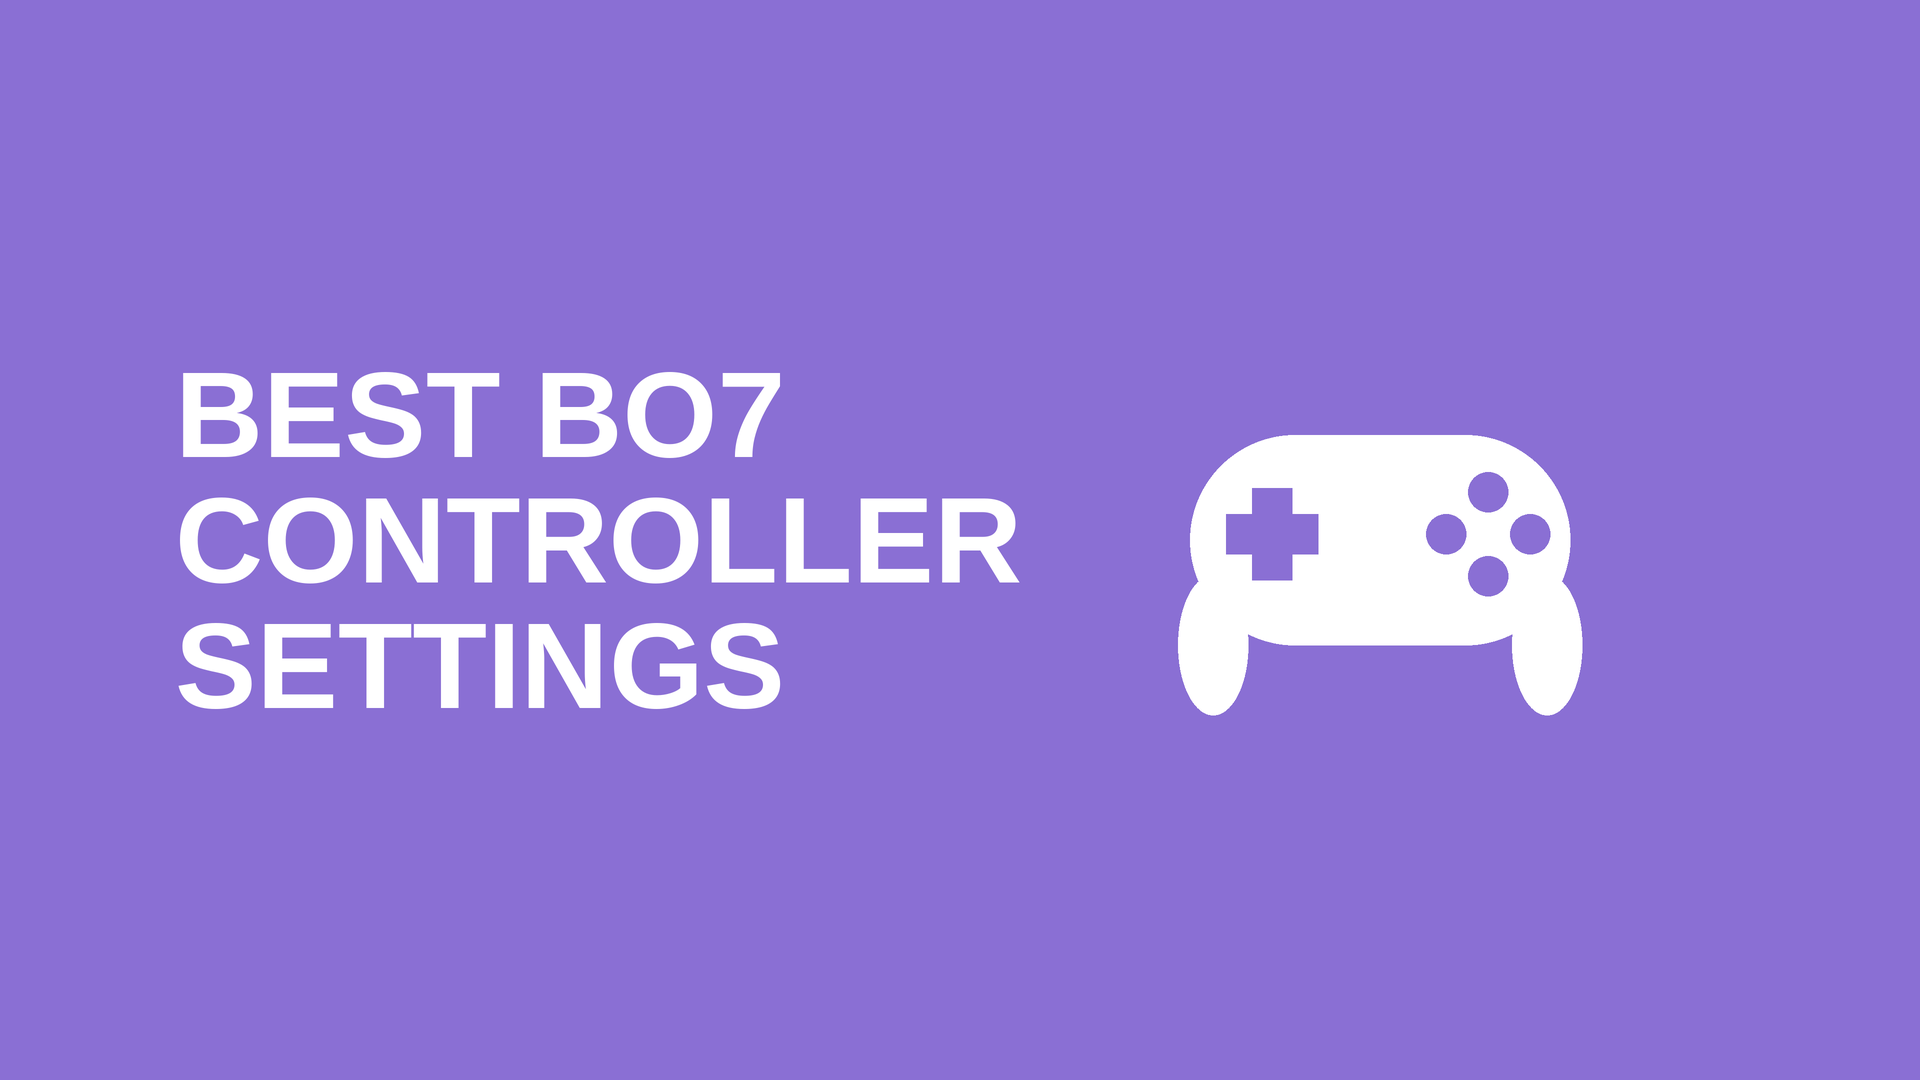
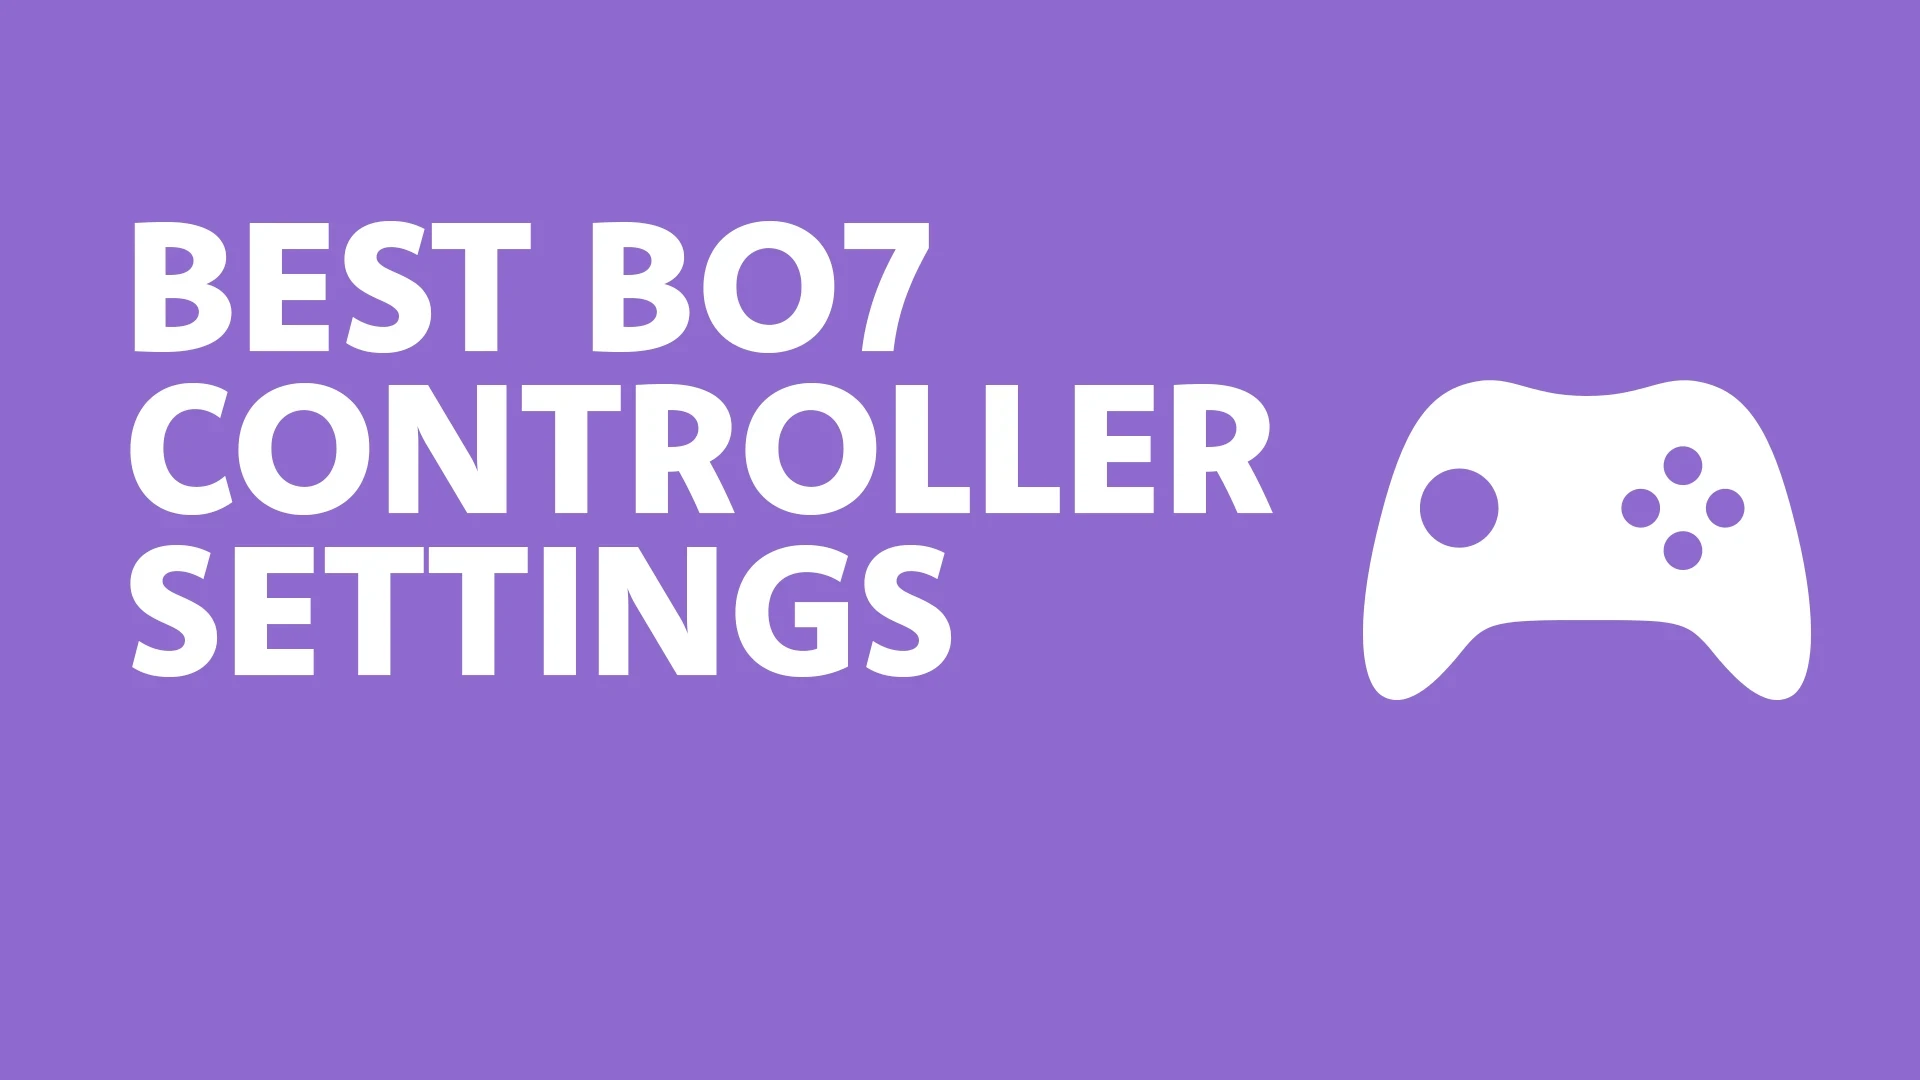
Add Best Modern Warfare 4 Loadouts article and refresh article thumbnails

Changed region(s): [[0.0625, 0.1833, 0.9688, 0.6722]]

diff --git a/website_frontend/src/pages/More/Articles/MW4Loadouts.js b/website_frontend/src/pages/More/Articles/MW4Loadouts.js
@@ -1,0 +1,157 @@
+import { Link } from "react-router";
+import { ArticleLayout } from "components";
+import { articles } from "./articlesData";
+import han86Base from 'assets/images/article_specific/article-mw4-han-86-base_10.24.26.webp';
+import han86Build from 'assets/images/article_specific/article-mw4-han-86-build_10.24.26.webp';
+import vel46Base from 'assets/images/article_specific/article-mw4-vel-46-base_10.24.26.webp';
+import vel46Build from 'assets/images/article_specific/article-mw4-vel-46-build_10.24.26.webp';
+import m4Base from 'assets/images/article_specific/article-mw4-m4-base_10.24.26.webp';
+import m4Build from 'assets/images/article_specific/article-mw4-m4-build_10.24.26.webp';
+import isoBase from 'assets/images/article_specific/article-mw4-iso-nightshade-base_10.24.26.webp';
+import isoBuild from 'assets/images/article_specific/article-mw4-iso-nightshade-build_10.24.26.webp';
+import castoffBase from 'assets/images/article_specific/article-mw4-castoff-762-base_10.24.26.webp';
+import castoffBuild from 'assets/images/article_specific/article-mw4-castoff-762-build_10.24.26.webp';
+
+const takeaways = [
+    "The Han 86, VEL 46, M4, ISO Nightshade and Castoff 762 are the five builds to copy right now.",
+    "Nearly every build runs a suppressor and a laser, trading recoil control for faster aim-down-sight speed.",
+    "Every class shares the same kit: Claymores, Portable Radar, and Resupply, Ninja and Scavenger.",
+];
+
+const faqs = [
+    {
+        question: "What is the best gun in Modern Warfare 4 right now?",
+        answer: "The M4 is the strongest all-round pick in this list, thanks to its very fast time to kill and controllable recoil. The ISO Nightshade is the top SMG.",
+    },
+    {
+        question: "Should I use the Vizive 5 or the XRK Clutch LS?",
+        answer: "The Vizive 5 gives bigger handling boosts but shows a visible beam while you aim. The XRK Clutch LS is weaker but hidden, so it suits slower, stealthier play.",
+    },
+    {
+        question: "Why do these builds skip optics?",
+        answer: "The M4 and VEL 46 have clean iron sights, so an optic would waste one of your five attachment slots. Add one if you prefer a cleaner sight picture.",
+    },
+];
+
+export const MW4Loadouts = () => {
+    return (
+        <ArticleLayout article={articles.mw4Loadouts} takeaways={takeaways} faqs={faqs}>
+            <p>
+                Whether you want more kills in Team Deathmatch or more wins in objective modes, your loadout does a lot of the work.
+                Modern Warfare 4 gives each weapon five attachment slots, and the right five can turn a slow rifle into a run-and-gun
+                threat. The builds below come from{" "}
+                <a href="https://www.youtube.com/watch?v=QnNxlKKB_Aw" target="_blank" rel="noopener noreferrer">this loadout video</a>,
+                cleaned up and organized so you can set them up in Gunsmith fast.
+            </p>
+
+            <h2>1. Best Han 86 Loadout</h2>
+            <img src={han86Base} alt="Han 86 in Modern Warfare 4" loading="lazy" />
+            <p>The Han 86 is one of the easiest assault rifles in the game, with very low recoil and a fast time to kill. Built this way, you can hold the trigger at long range without burst firing.</p>
+            <ol>
+                <li><strong>Optic: Slimline Elite Mini Reflex.</strong> A clean sight picture for longer fights. Slide the rail position closest to you to cut visual recoil.</li>
+                <li><strong>Laser: Vizive 5.</strong> Boosts sprint-to-fire speed, ADS speed and ADS gun bob. Prefer not to show a beam? Use the XRK Clutch LS for faster ADS with no visible laser.</li>
+                <li><strong>Barrel: Han 86 Silenced Barrel.</strong> An integrated suppressor keeps you off the radar while adding muzzle velocity, damage range and recoil control.</li>
+                <li><strong>Underbarrel: FSS TAC 90 Grip.</strong> Cuts idle sway and gun bob for steadier long-range shots.</li>
+                <li><strong>Stock: L9P Fold Stock.</strong> Raises movement speed so the rifle feels less sluggish. Swap it for the Justice 2 rear grip if you want even faster ADS.</li>
+            </ol>
+            <img src={han86Build} alt="The finished Han 86 build in Gunsmith" loading="lazy" />
+            <p>This is a true all-range rifle, so it works as a primary for almost any mode.</p>
+
+            <h2>2. Best VEL 46 Loadout</h2>
+            <img src={vel46Base} alt="VEL 46 in Modern Warfare 4" loading="lazy" />
+            <p>The VEL 46 is the game's take on the MP7, and it hits closer to an assault rifle than an SMG. Its iron sights are clean, so you don't need to spend a slot on an optic.</p>
+            <ol>
+                <li><strong>Laser: Vizive 5.</strong> ADS speed matters most on an SMG, and this also speeds up sprint-to-fire. If you play slower and want to stay hidden, run the XRK Clutch LS.</li>
+                <li><strong>Barrel: Series 11 Barrel.</strong> Adds damage range, muzzle velocity and recoil control so you can fight past point-blank range.</li>
+                <li><strong>Muzzle: Crackdown Muzzle.</strong> A heavy suppressor that keeps you off the radar and improves damage range.</li>
+                <li><strong>Rear Grip: LM Combat Grip.</strong> More ADS speed. The recoil penalty is covered by the barrel and muzzle.</li>
+                <li><strong>Stock: VEL 46 Extended Stock.</strong> One more ADS speed boost for snappier close-range fights.</li>
+            </ol>
+            <img src={vel46Build} alt="The finished VEL 46 build in Gunsmith" loading="lazy" />
+            <p>The result is an SMG/AR hybrid that wins fights at close and medium range.</p>
+
+            <h2>3. Best M4 Loadout</h2>
+            <img src={m4Base} alt="M4 in Modern Warfare 4" loading="lazy" />
+            <p>The M4 is arguably the best assault rifle in Modern Warfare 4, with a very fast time to kill and controllable recoil. Skip the barrel slot entirely: every barrel option makes this gun worse.</p>
+            <ol>
+                <li><strong>Laser: SA L500.</strong> Faster ADS with no downsides on this weapon.</li>
+                <li><strong>Muzzle: IS300.</strong> A suppressor that adds muzzle velocity, damage range and recoil control.</li>
+                <li><strong>Underbarrel: Fireline Grip.</strong> Extra ADS recoil control on top of an already stable rifle.</li>
+                <li><strong>Rear Grip: Phase Grip.</strong> Improves ADS and sprint-to-fire speed where the M4 is weakest.</li>
+                <li><strong>Stock: ASP50 Stock.</strong> Raises movement speed. Prefer an optic? Drop the stock for the Slimline Elite and slide it closest to you.</li>
+            </ol>
+            <img src={m4Build} alt="The finished M4 build in Gunsmith" loading="lazy" />
+            <p>The iron sights are strong enough to run without an optic. At extreme range, tap or burst fire to stay on target.</p>
+
+            <h2>4. Best ISO Nightshade Loadout</h2>
+            <img src={isoBase} alt="ISO Nightshade in Modern Warfare 4" loading="lazy" />
+            <p>The ISO Nightshade is pitched as the strongest SMG on paper, and this build turns it into an AR hybrid that can still run and gun.</p>
+            <ol>
+                <li><strong>Laser: Vizive 5.</strong> Faster sprint-to-fire, faster ADS and less gun bob. Swap to the XRK Clutch LS to hide your beam.</li>
+                <li><strong>Barrel: ZLR Carbon 900.</strong> Adds damage range, muzzle velocity and recoil control for medium- and long-range fights.</li>
+                <li><strong>Muzzle: XRK Herder 40.</strong> A suppressor that improves firing stability. The small ADS penalty is offset by the laser and grip.</li>
+                <li><strong>Underbarrel: FSS TAC 90 Grip.</strong> Reduces idle sway and gun bob for longer shots.</li>
+                <li><strong>Rear Grip: Demo STP1.</strong> Brings back ADS speed for close-range fights. The recoil cost is covered by the rest of the build.</li>
+            </ol>
+            <img src={isoBuild} alt="The finished ISO Nightshade build in Gunsmith" loading="lazy" />
+            <p>You only get 30 rounds, so avoid taking on multiple enemies at once.</p>
+
+            <h2>5. Best Castoff 762 Loadout</h2>
+            <img src={castoffBase} alt="Castoff 762 in Modern Warfare 4" loading="lazy" />
+            <p>The Castoff 762 hits harder than the other rifles here, but its handling is slow. This build is about speeding it up without losing its punch.</p>
+            <ol>
+                <li><strong>Optic: Cronin 0K.</strong> Cleans up the sight picture for medium- and long-range fights. You can't adjust the rail position on this gun.</li>
+                <li><strong>Barrel: FJX Ghostfire 16.3".</strong> An integrated suppressor plus better muzzle velocity and recoil control.</li>
+                <li><strong>Underbarrel: FSS TAC 90 Grip.</strong> Removes as much sway and gun bob as possible.</li>
+                <li><strong>Rear Grip: Mugi O YK1 Grip.</strong> Faster ADS and sprint-to-fire speed.</li>
+                <li><strong>Stock: Castoff Dogfighter 27.</strong> Raises movement speed so the rifle doesn't feel stuck in the mud.</li>
+            </ol>
+            <img src={castoffBuild} alt="The finished Castoff 762 build in Gunsmith" loading="lazy" />
+            <p>It's the pick if you want a heavier-hitting rifle for longer sightlines.</p>
+
+            <h2>Best Perks, Equipment and Killstreaks</h2>
+            <p>Run the same kit on all five classes. It's built to punish campers and keep your equipment stocked.</p>
+            <table>
+                <thead>
+                    <tr>
+                        <th>Slot</th>
+                        <th>Pick</th>
+                        <th>Why</th>
+                    </tr>
+                </thead>
+                <tbody>
+                    <tr><td>Secondary</td><td>Sang 9mm</td><td>Reliable backup pistol</td></tr>
+                    <tr><td>Melee</td><td>Knife</td><td>Standard</td></tr>
+                    <tr><td>Tactical</td><td>Flash Grenade</td><td>Clears rooms before you push</td></tr>
+                    <tr><td>Lethal</td><td>Claymore</td><td>Place in high-traffic or camping spots for easy kills</td></tr>
+                    <tr><td>Field Upgrade</td><td>Portable Radar</td><td>Alerts you when someone is camping nearby</td></tr>
+                    <tr><td>Perks</td><td>Resupply, Ninja, Scavenger</td><td>Claymores refill, silent footsteps, ammo from kills</td></tr>
+                    <tr><td>Killstreaks</td><td>UAV, Crossfire, Advanced UAV</td><td>Personal preference</td></tr>
+                </tbody>
+            </table>
+            <p>
+                Ninja is the standout right now. Silent footsteps make it one of the strongest perks in the game, so expect most
+                lobbies to run it.
+            </p>
+
+            <h2>Find the Best Loadout for You</h2>
+            <p>
+                Start with the M4 or Han 86 if you want a forgiving all-range rifle. Pick the VEL 46 or ISO Nightshade if you play
+                aggressively, or the Castoff 762 for harder-hitting long-range fights. Test each one in the firing range, then take
+                your favorite into a match and adjust the laser and stock to fit how you play.
+            </p>
+            <p>
+                <em>Attachment names are taken from a video transcript and may be spelled slightly differently in game. Meta picks can
+                change with each balance patch.</em>
+            </p>
+
+            <h2>Put Your Loadout to the Test</h2>
+            <p>
+                Once your class is dialed in, take it into real competition. <Link to="/">uSync</Link> helps players find{" "}
+                <Link to="/tournaments">esports tournaments</Link>, <Link to="/lans">LANs</Link>,{" "}
+                <Link to="/games/call-of-duty/leagues">leagues</Link>, wagers, and head-to-head events without hunting across
+                scattered sites.
+            </p>
+        </ArticleLayout>
+    );
+}

diff --git a/website_frontend/src/pages/More/Articles/articlesData.js b/website_frontend/src/pages/More/Articles/articlesData.js
@@ -7,6 +7,7 @@ import provideThumb from 'assets/images/article_bubbles/article-thumb-what-we-pr
 import joinLeagueThumb from 'assets/images/article_bubbles/article-thumb-how-to-join-esports-league_9.6.26.webp';
 import esportsBetterThumb from 'assets/images/article_bubbles/article-thumb-how-esports-can-be-better_9.6.26.webp';
 import uniqueThumb from 'assets/images/article_bubbles/article-thumb-why-usync-is-unique_9.6.26.webp';
+import mw4Thumb from 'assets/images/article_bubbles/article-thumb-mw4-best-loadouts_10.24.26.webp';
 import bo7Thumb from 'assets/images/article_bubbles/article-thumb-bo7-controller-settings_9.6.26.webp';
 import dpiThumb from 'assets/images/article_bubbles/article-thumb-best-dpi-valorant_9.6.26.webp';
 import ps5Thumb from 'assets/images/article_bubbles/article-thumb-enable-120hz-ps5_9.6.26.webp';
@@ -19,6 +20,7 @@ import provideHero from 'assets/images/article_specific/article-hero-what-we-pro
 import joinLeagueHero from 'assets/images/article_specific/article-hero-how-to-join-esports-league_9.6.26.webp';
 import esportsBetterHero from 'assets/images/article_specific/article-hero-how-esports-can-be-better_9.6.26.webp';
 import uniqueAndTournamentsHero from 'assets/images/article_specific/article-hero-why-usync-unique-and-tournaments-near-you_9.6.26.webp';
+import mw4Hero from 'assets/images/article_specific/article-hero-mw4-best-loadouts_10.24.26.webp';
 import bo7Hero from 'assets/images/article_specific/article-hero-bo7-controller-settings_9.6.26.webp';
 import dpiHero from 'assets/images/article_specific/article-hero-best-dpi-valorant_9.6.26.webp';
 import ps5Hero from 'assets/images/article_specific/article-hero-enable-120hz-ps5_9.6.26.webp';
@@ -215,6 +217,23 @@ export const articles = {
         dateModified: "2026-07-11",
         readTime: 6,
         keywords: ["how to join online gaming tournaments", "online esports tournaments", "tournament check-in", "tournament registration", "beginner esports tournaments"],
+    },
+    mw4Loadouts: {
+        slug: "best-modern-warfare-4-loadouts",
+        name: "Best Modern Warfare 4 Loadouts",
+        category: "Guide",
+        title: "Best Modern Warfare 4 Loadouts: The Top 5 Meta Builds",
+        headline: "Best Modern Warfare 4 Loadouts: The Top 5 Meta Builds",
+        dek: "Three assault rifles and two SMGs carry the early Modern Warfare 4 meta. Here is every attachment, the alternates, and the gear to run with them.",
+        description: "The best Modern Warfare 4 loadouts: full attachment lists for the Han 86, VEL 46, M4, ISO Nightshade and Castoff 762, plus the perks and equipment to pair them with.",
+        image: mw4Hero,
+        imageAlt: "Modern Warfare 4 Create a Class screen showing a loadout next to Ghost",
+        imageCredit: "Instagram",
+        thumb: mw4Thumb,
+        datePublished: "2026-10-24",
+        dateModified: "2026-10-24",
+        readTime: 5,
+        keywords: ["best Modern Warfare 4 loadouts", "MW4 meta loadouts", "MW4 M4 loadout", "Han 86 loadout", "Call of Duty attachments"],
     },
 };
 

diff --git a/website_frontend/src/pages/More/Articles.js b/website_frontend/src/pages/More/Articles.js
@@ -8,6 +8,7 @@ import provideThumb from 'assets/images/article_bubbles/article-thumb-what-we-pr
 import joinLeagueThumb from 'assets/images/article_bubbles/article-thumb-how-to-join-esports-league_9.6.26.webp';
 import esportsBetterThumb from 'assets/images/article_bubbles/article-thumb-how-esports-can-be-better_9.6.26.webp';
 import uniqueThumb from 'assets/images/article_bubbles/article-thumb-why-usync-is-unique_9.6.26.webp';
+import mw4Thumb from 'assets/images/article_bubbles/article-thumb-mw4-best-loadouts_10.24.26.webp';
 import bo7Thumb from 'assets/images/article_bubbles/article-thumb-bo7-controller-settings_9.6.26.webp';
 import dpiThumb from 'assets/images/article_bubbles/article-thumb-best-dpi-valorant_9.6.26.webp';
 import ps5Thumb from 'assets/images/article_bubbles/article-thumb-enable-120hz-ps5_9.6.26.webp';
@@ -91,6 +92,13 @@ const ARTICLES = [
         category: "Guide",
         title: "How to Join an Online Gaming Tournament",
         excerpt: "Choose your game and format, find a reputable event on uSync, read the rules, register, prepare your connection, check in early, and play.",
+    },
+    {
+        path: "/more/articles/best-modern-warfare-4-loadouts",
+        thumbnail: mw4Thumb,
+        category: "Guide",
+        title: "Best Modern Warfare 4 Loadouts: The Top 5 Meta Builds",
+        excerpt: "Three assault rifles and two SMGs carry the early Modern Warfare 4 meta. Here is every attachment, the alternates, and the gear to run with them.",
     },
 ];
 

diff --git a/website_frontend/src/routes/ArticleRoutes.js b/website_frontend/src/routes/ArticleRoutes.js
@@ -12,6 +12,7 @@ import { ValorantDPI } from 'pages/More/Articles/ValorantDPI';
 import { PS5_120Hz } from 'pages/More/Articles/PS5_120Hz';
 import { EsportsTournamentsNearMe } from 'pages/More/Articles/EsportsTournamentsNearMe';
 import { JoinOnlineTournament } from 'pages/More/Articles/JoinOnlineTournament';
+import { MW4Loadouts } from 'pages/More/Articles/MW4Loadouts';
 
 const ArticleRoutes = () => (
     <Routes>
@@ -27,6 +28,7 @@ const ArticleRoutes = () => (
         <Route path='how-to-enable-120hz-ps5' element={<PS5_120Hz />} />
         <Route path='esports-tournaments-near-me' element={<EsportsTournamentsNearMe />} />
         <Route path='how-to-join-online-gaming-tournaments' element={<JoinOnlineTournament />} />
+        <Route path='best-modern-warfare-4-loadouts' element={<MW4Loadouts />} />
     </Routes>
 );
 

diff --git a/website_frontend/src/components/ArticleLayout/ArticleLayout.module.css b/website_frontend/src/components/ArticleLayout/ArticleLayout.module.css
@@ -307,6 +307,14 @@
     padding-bottom: 1rem;
 }
 
+.body img {
+    display: block;
+    width: 100%;
+    height: auto;
+    margin: 1.25rem 0;
+    border-radius: 12px;
+}
+
 .body p {
     color: rgb(200, 197, 208);
     font-size: 1.1rem;
